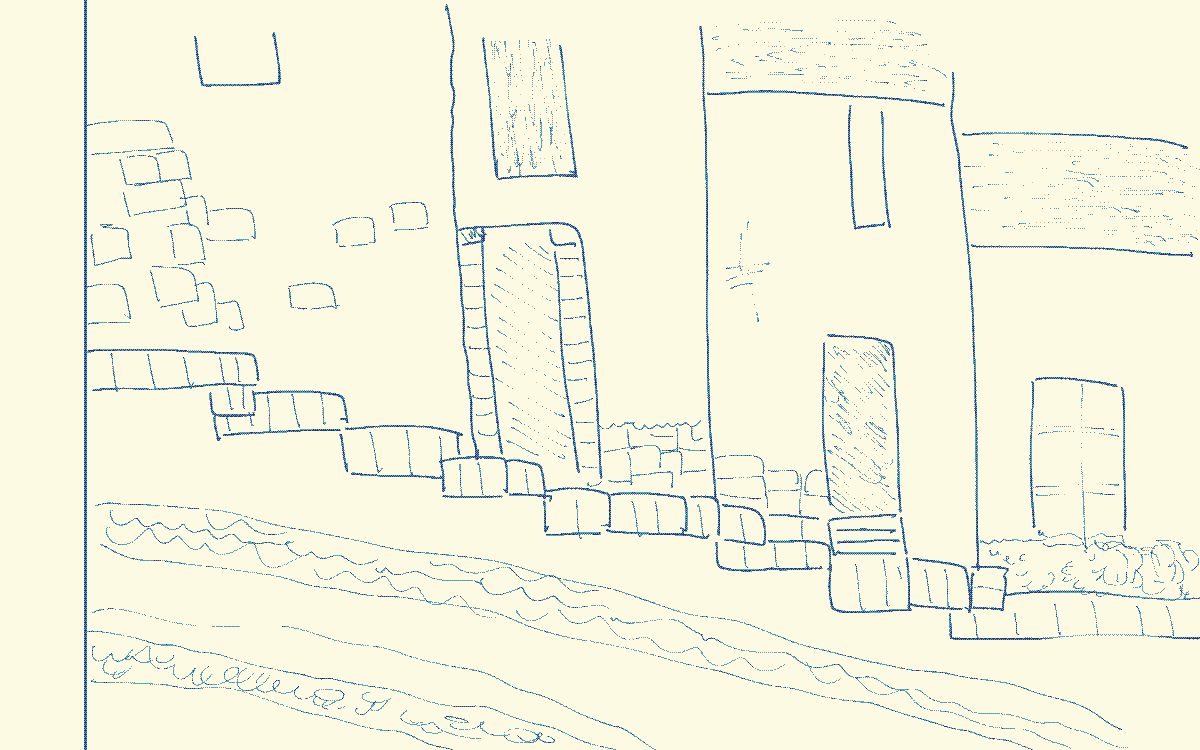
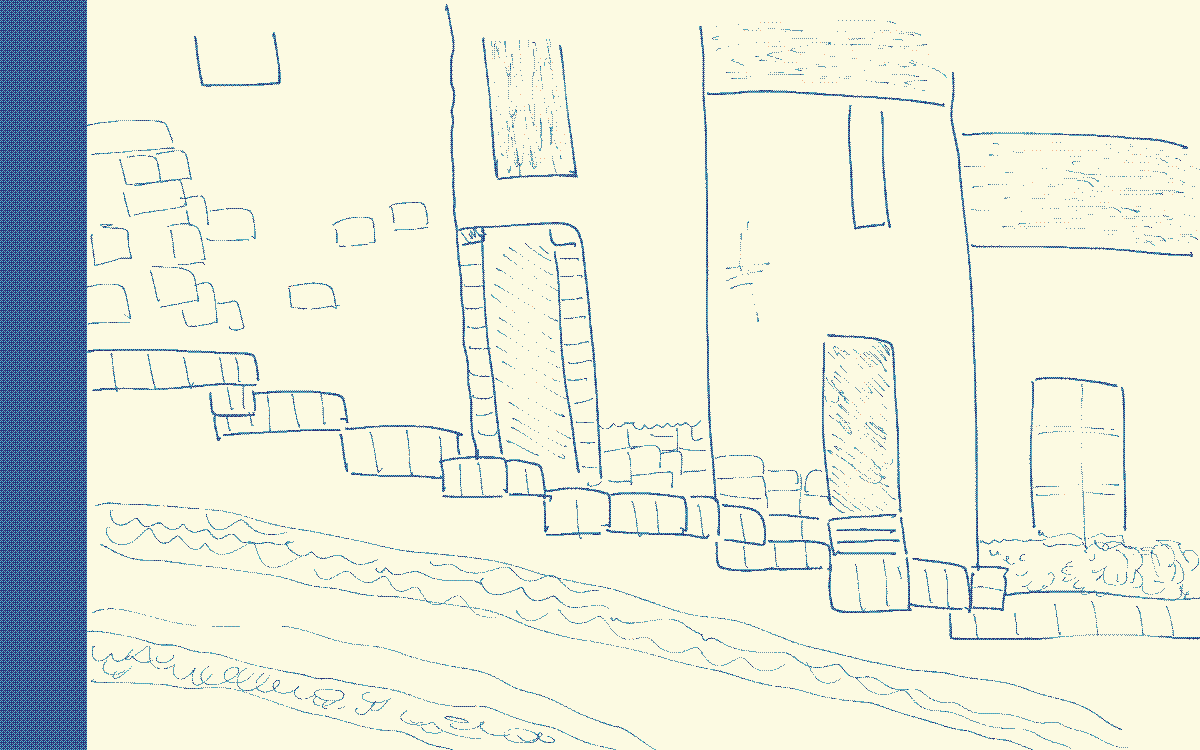
Caras nuevas de Amaru, la lámina del loro, la calle nueva y Ariel en alta
- callate1 -> amaru_rojo (8 veces en la demo) y callate2 -> amaru_molesto
  (otras 8). Con eso Amaru ya tiene sus cuatro caras más usadas
- nocomegalleta.png: la lámina sale justo cuando Flor dice 'No come galleta'
- bajada-2 reemplaza calle_subida.png
- sprites de Ariel en alta (1024 en vez de 128). Ajusté altoJugador a 4.35 y el
  alto del cruce a 165 para que quede del mismo tamaño que antes, porque los
  nuevos son cuadrados y la figura ocupa el 91 % en vez del 99 %

Changed region(s): [[0.0, 0.0, 0.0925, 1.0]]

diff --git a/js/datos/mapas.js b/js/datos/mapas.js
@@ -23,7 +23,7 @@ const MAPAS = {
     imagen: 'assets/img/mapas/plaza.png',   // el dibujo: 1920 x 1200 = 48 x 30 casillas
     spriteJugador: 'assets/img/sprites/ariel_base.png',
     spriteCaminar: 'assets/img/sprites/ariel_walk.png',
-    pasosPorSegundo: 6, altoJugador: 4,   // Ariel mide 4 casillas: la escala del dibujo
+    pasosPorSegundo: 6, altoJugador: 4.35,   // Ariel mide 4 casillas: la escala del dibujo
     // Esta grilla ya no se ve: solo dice por dónde NO se puede caminar.
     // Sale del dibujo (donde hay tinta, choca). Para ajustarla a ojo pon
     // verChoques: true en config.js y mueve los # hasta que calce.

diff --git a/js/datos/animaciones.js b/js/datos/animaciones.js
@@ -80,7 +80,7 @@ const ANIMACIONES = {
 //   porSegundo: cuántos cambios de pie por segundo
 // =====================================================================
 const CRUCES = {
-  ariel: { marcos: ['ariel_base', 'ariel_walk'], alto: 150, piso: 40, porSegundo: 6 },
+  ariel: { marcos: ['ariel_base', 'ariel_walk'], alto: 165, piso: 40, porSegundo: 6 },
   gato:  { marcos: ['gato', 'gato_corre'],       alto: 56,  piso: 40, porSegundo: 7, espejo: true },
   flor:  { marcos: ['flor'],                     alto: 150, piso: 40 },
   amaru: { marcos: ['amaru'],                    alto: 150, piso: 40 },

diff --git a/js/datos/guion/cap01.js b/js/datos/guion/cap01.js
@@ -283,6 +283,7 @@ Te acercas otra vez, ya con curiosidad. Es un loro precioso, verde manzana con l
 Sacas el celular y le tomas una foto. El loro, que claramente ya ha sido fotografiado antes, se pone de perfil. En serio. Se pone de perfil.
 Miras alrededor. El patio detrás de la jaula tiene el piso de tierra apisonada, una pared con baldes apilados, una bicicleta sin cadena. Nadie.
 ariel (neutral): Hubiese comprado galleta en el kiosko para invitarte.
+@cuadro nocomegalleta
 voz: No come galleta.
 @cuadro off
 @fondo calle_loro
